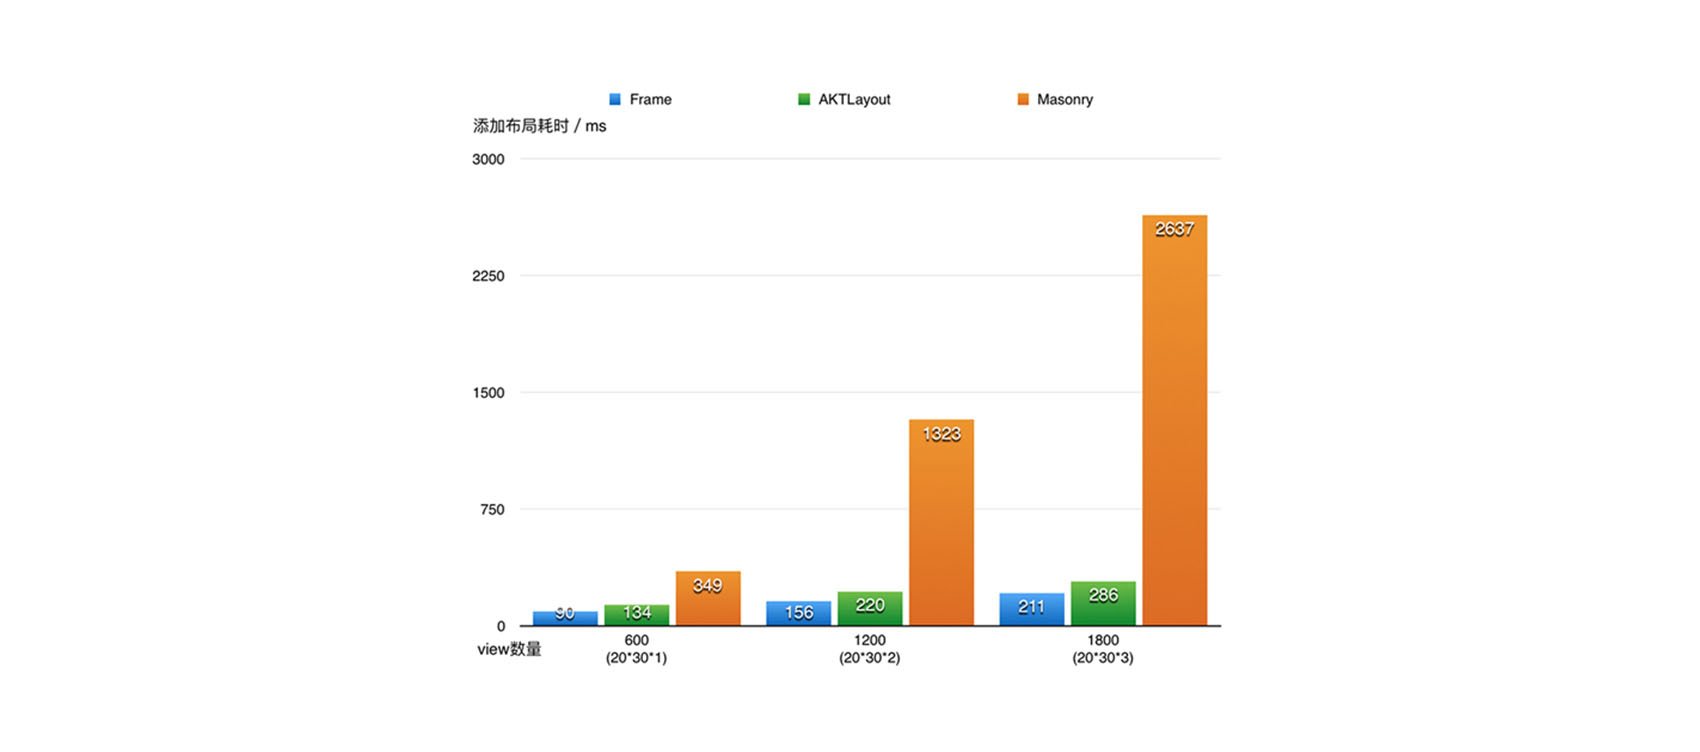
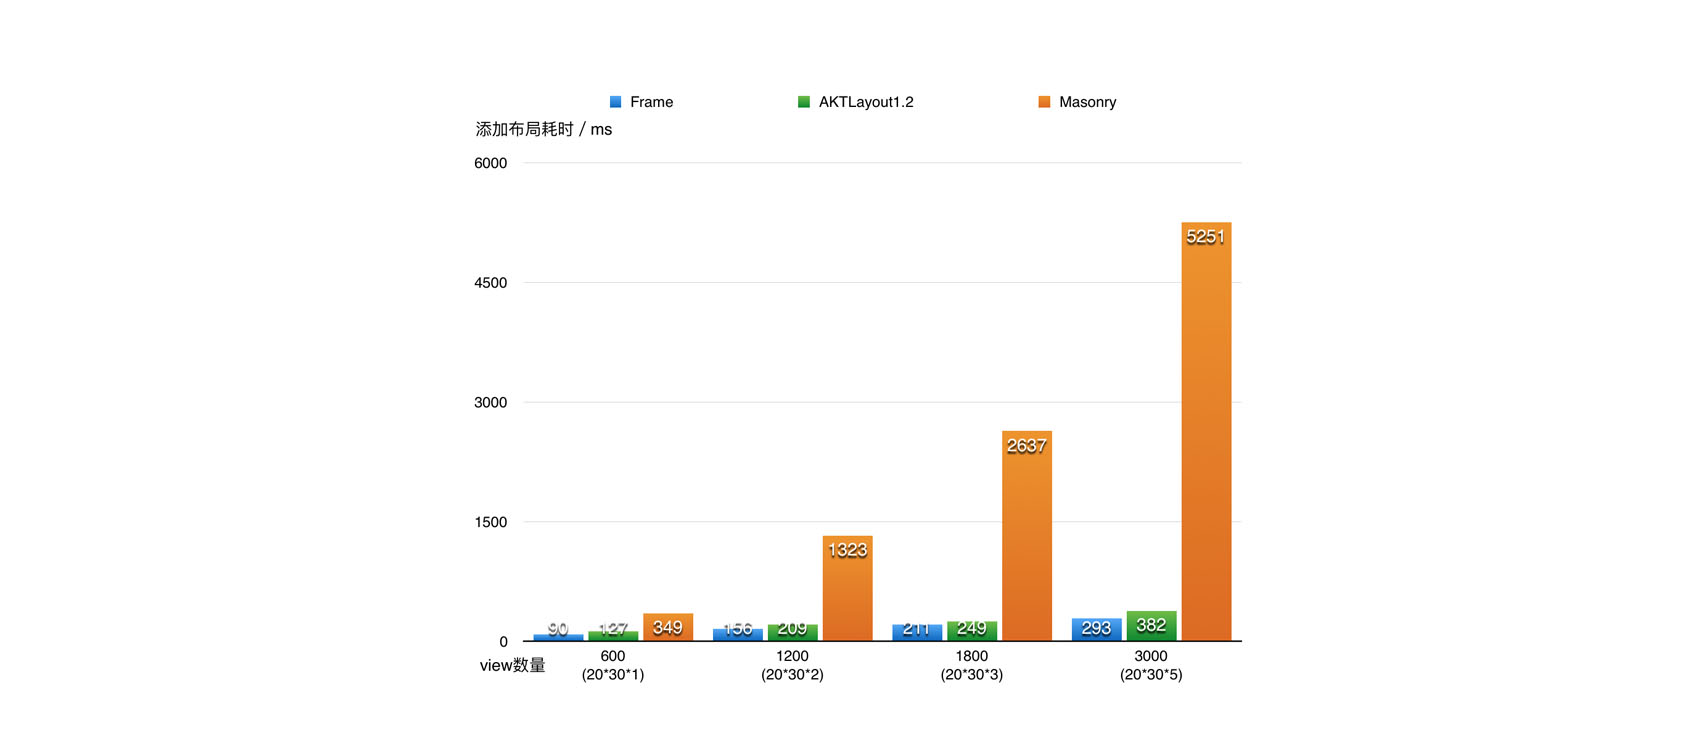
更新图片3

diff --git a/Test/Test/ViewController2.m b/Test/Test/ViewController2.m
@@ -20,13 +20,13 @@
     self.view.backgroundColor = [UIColor whiteColor];
     // Layout test
 //    [self layoutTest1];
-    [self layoutTest2];
+//    [self layoutTest2];
 //    [self layoutTest3];
     // Enter Performance Testing page
-//    dispatch_after(dispatch_time(DISPATCH_TIME_NOW, (int64_t)(2 * NSEC_PER_SEC)), dispatch_get_main_queue(), ^{
-//        ViewController *v = [ViewController new];
-//        [self presentViewController:v animated:YES completion:nil];
-//    });
+    dispatch_after(dispatch_time(DISPATCH_TIME_NOW, (int64_t)(2 * NSEC_PER_SEC)), dispatch_get_main_queue(), ^{
+        ViewController *v = [ViewController new];
+        [self presentViewController:v animated:YES completion:nil];
+    });
 }
 
 - (void)didReceiveMemoryWarning {

diff --git a/Test/Test/ViewController.m b/Test/Test/ViewController.m
@@ -29,8 +29,8 @@
     self.view.aktName = @"self.view";
     dispatch_after(dispatch_time(DISPATCH_TIME_NOW, (int64_t)(3 * NSEC_PER_SEC)), dispatch_get_main_queue(), ^{
 //                    [self initUI];
-        [self initUIAkt];
-//                    [self initUIMas];
+//        [self initUIAkt];
+                    [self initUIMas];
     });
 }
 - (void)tap:(UITapGestureRecognizer *)tap {

diff --git a/README.md b/README.md
@@ -112,7 +112,7 @@ AKTLayou顶层采用了基于Objective-C语法的shell，通过shell我们可以
 
 	在复杂布局中应用`NSLayoutConstraint`来进行自动布局，性能往往不令人满意。通常的做法是通过手写`frame`布局来提升性能。AKTLayout采用高性能的布局添加和运算架构，响应式布局更新算法，高效地实现自动布局。以下我们对frame、AKTLayout 和Masonry进行了性能比较（Platform：iPhone 6 SystemVersion：9.3.1）。
 
-	![test](https://github.com/AkteamYang/AKTKit.AKTLayout/blob/master/Imgs/screenShot.png?raw=true)
+	![test](https://github.com/AkteamYang/AKTKit.AKTLayout/blob/master/Imgs/screenShot.jpg?raw=true)
 
 	1. **布局的添加**
 	![addLayout](https://github.com/AkteamYang/AKTKit.AKTLayout/blob/master/Imgs/addLayout.jpg?raw=true "addLayout")
